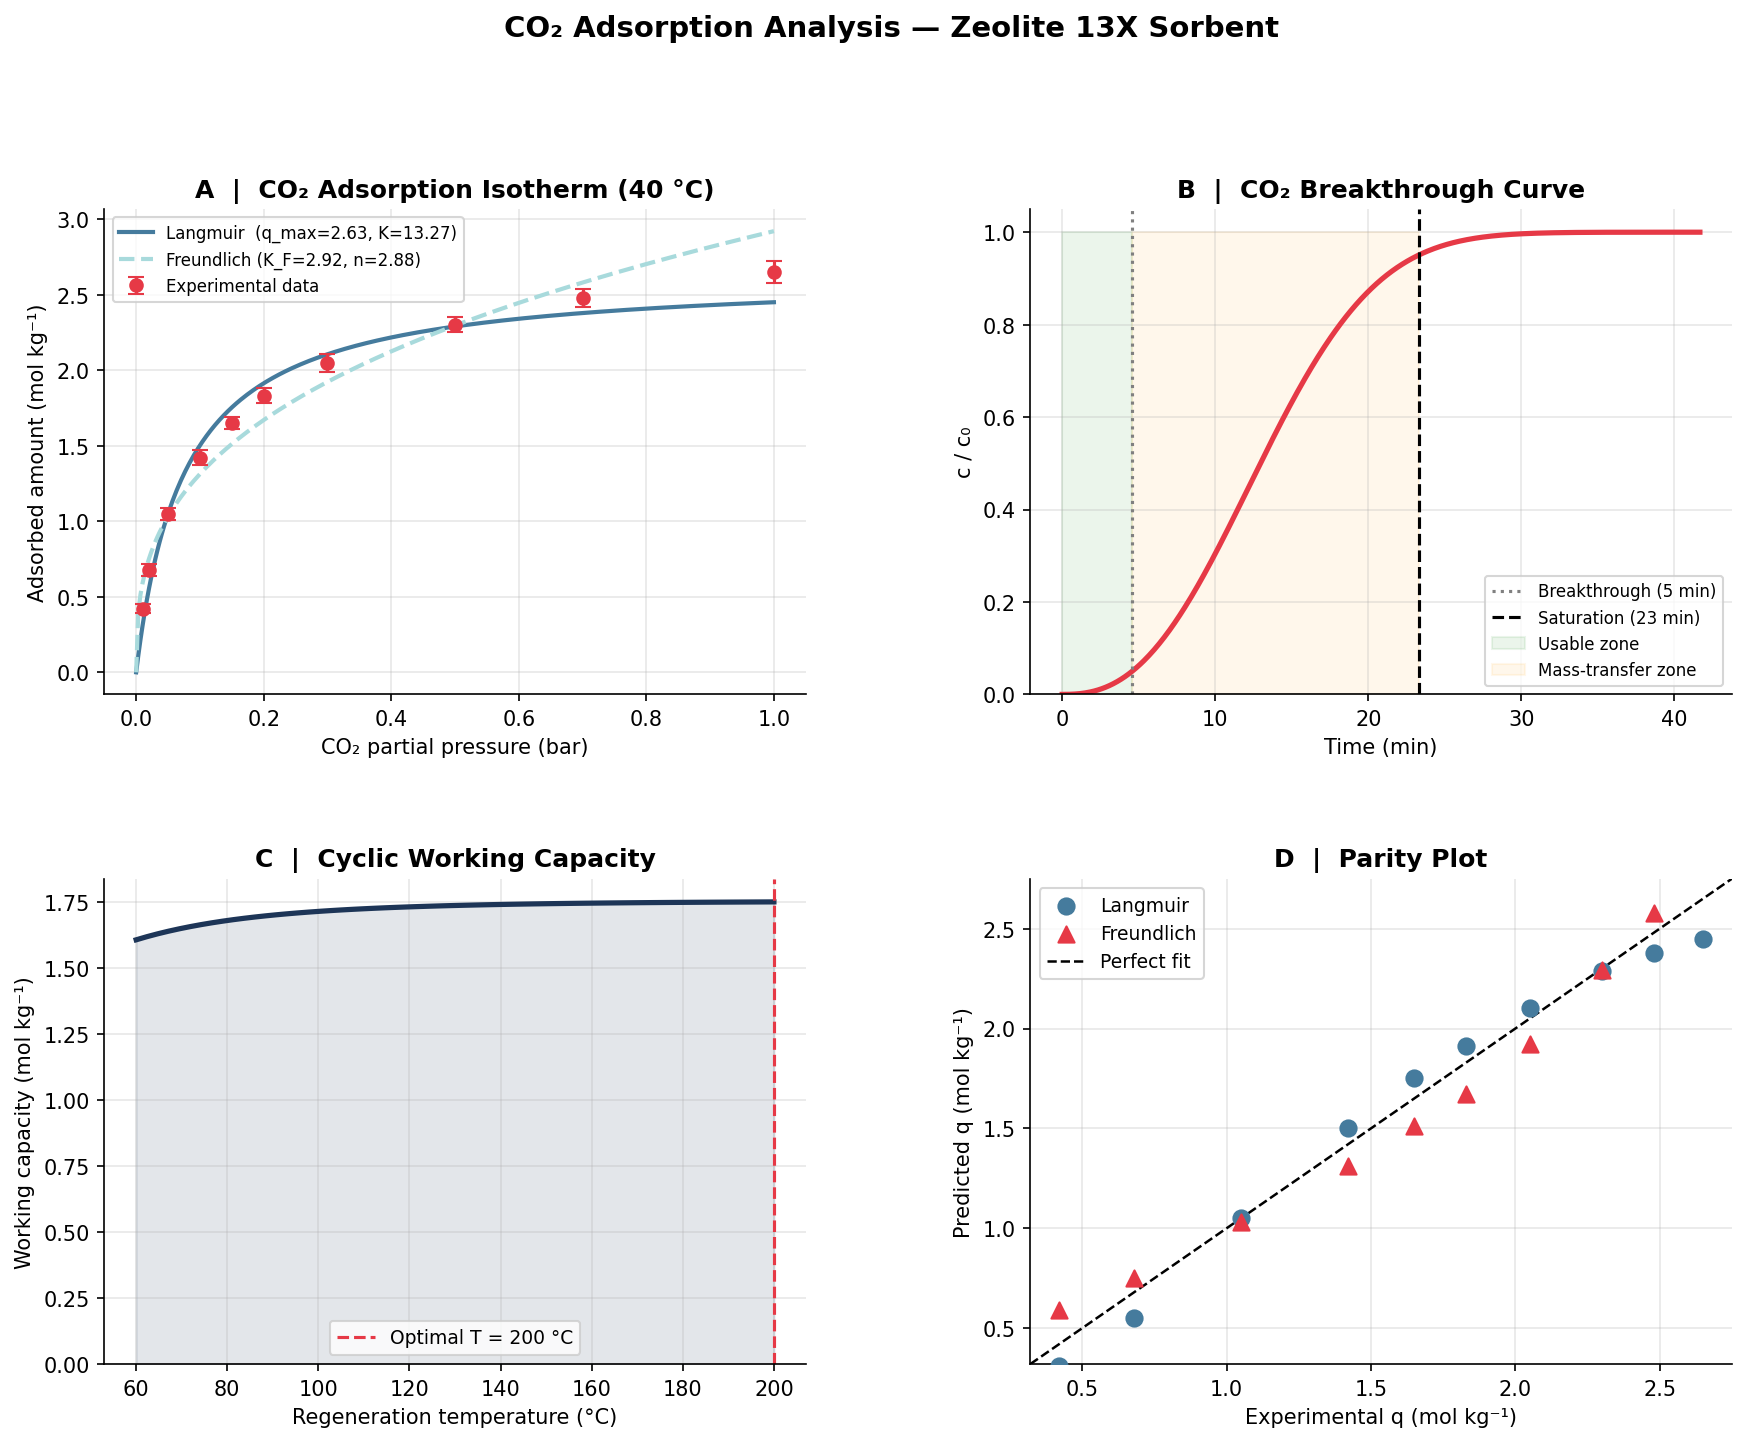
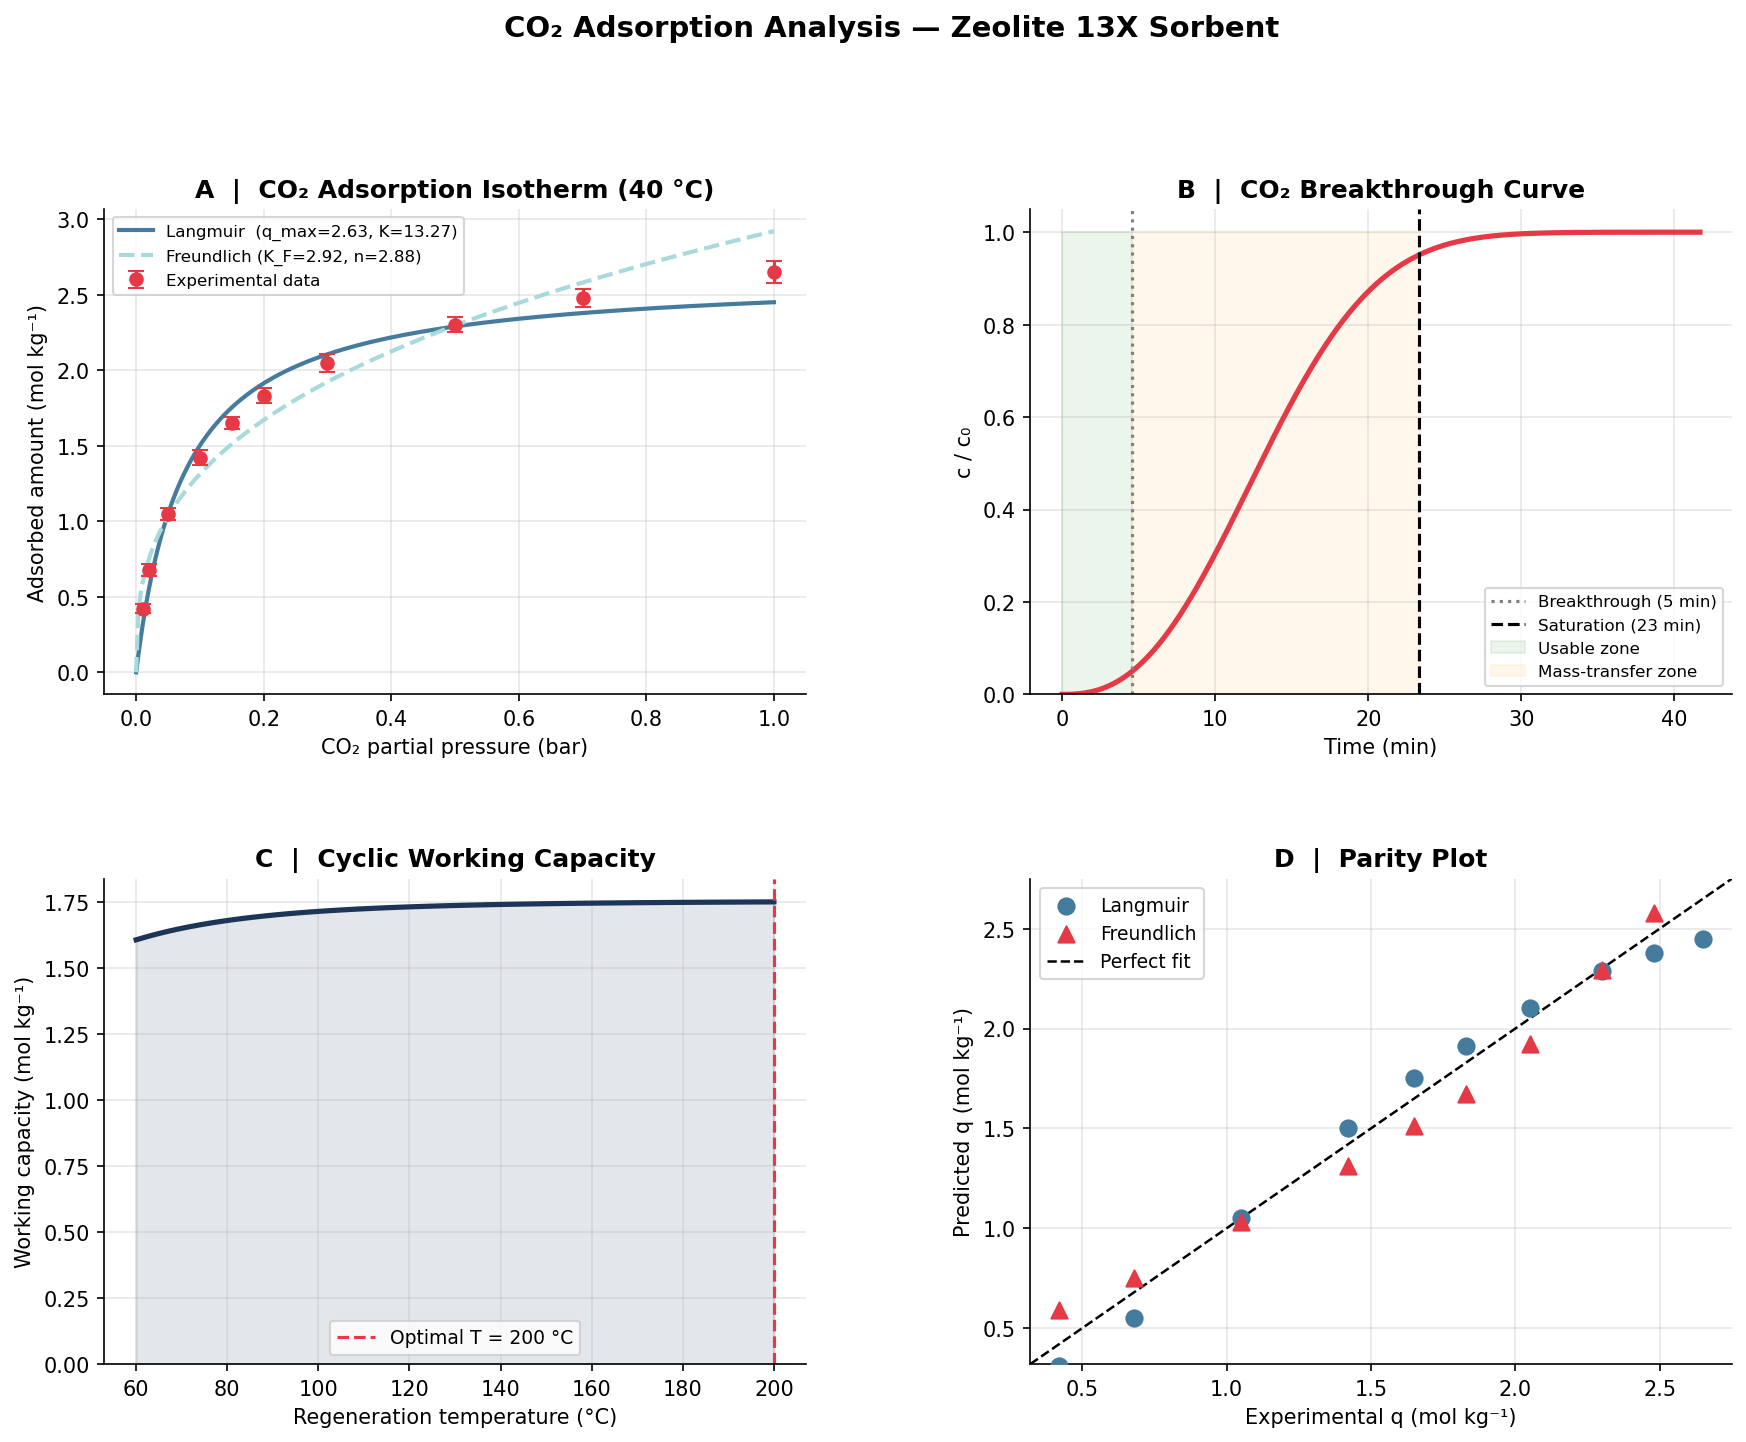
perf(regen): vectorize working-capacity sweep over T_regen
Replace Python list comprehension calling working_capacity() 60
times with a single vectorized call. working_capacity() already
uses numpy ops throughout, so it broadcasts over an array of
regeneration temperatures directly. Avoids repeated scalar
np.exp/langmuir dispatch overhead and yields cleaner downstream
indexing via argmax.

diff --git a/co2_adsorption_analysis.py b/co2_adsorption_analysis.py
@@ -211,11 +211,12 @@ def working_capacity(T_ads, T_regen, q_max, K_L):
     return q_ads - q_regen
 
 T_regen_range = np.linspace(60, 200, 60)
-wc_values = [working_capacity(40, T, *popt_L) for T in T_regen_range]
+wc_values = working_capacity(40, T_regen_range, *popt_L)
 
-optimal_T = T_regen_range[np.argmax(wc_values)]
+optimal_idx = int(np.argmax(wc_values))
+optimal_T = T_regen_range[optimal_idx]
 print(f"\nREGENERATION ANALYSIS")
-print(f"  Max working capacity:  {max(wc_values):.3f} mol/kg at T_regen = {optimal_T:.0f} °C")
+print(f"  Max working capacity:  {wc_values[optimal_idx]:.3f} mol/kg at T_regen = {optimal_T:.0f} °C")
 
 
 # ════════════════════════════════════════════════════════════════════════════
